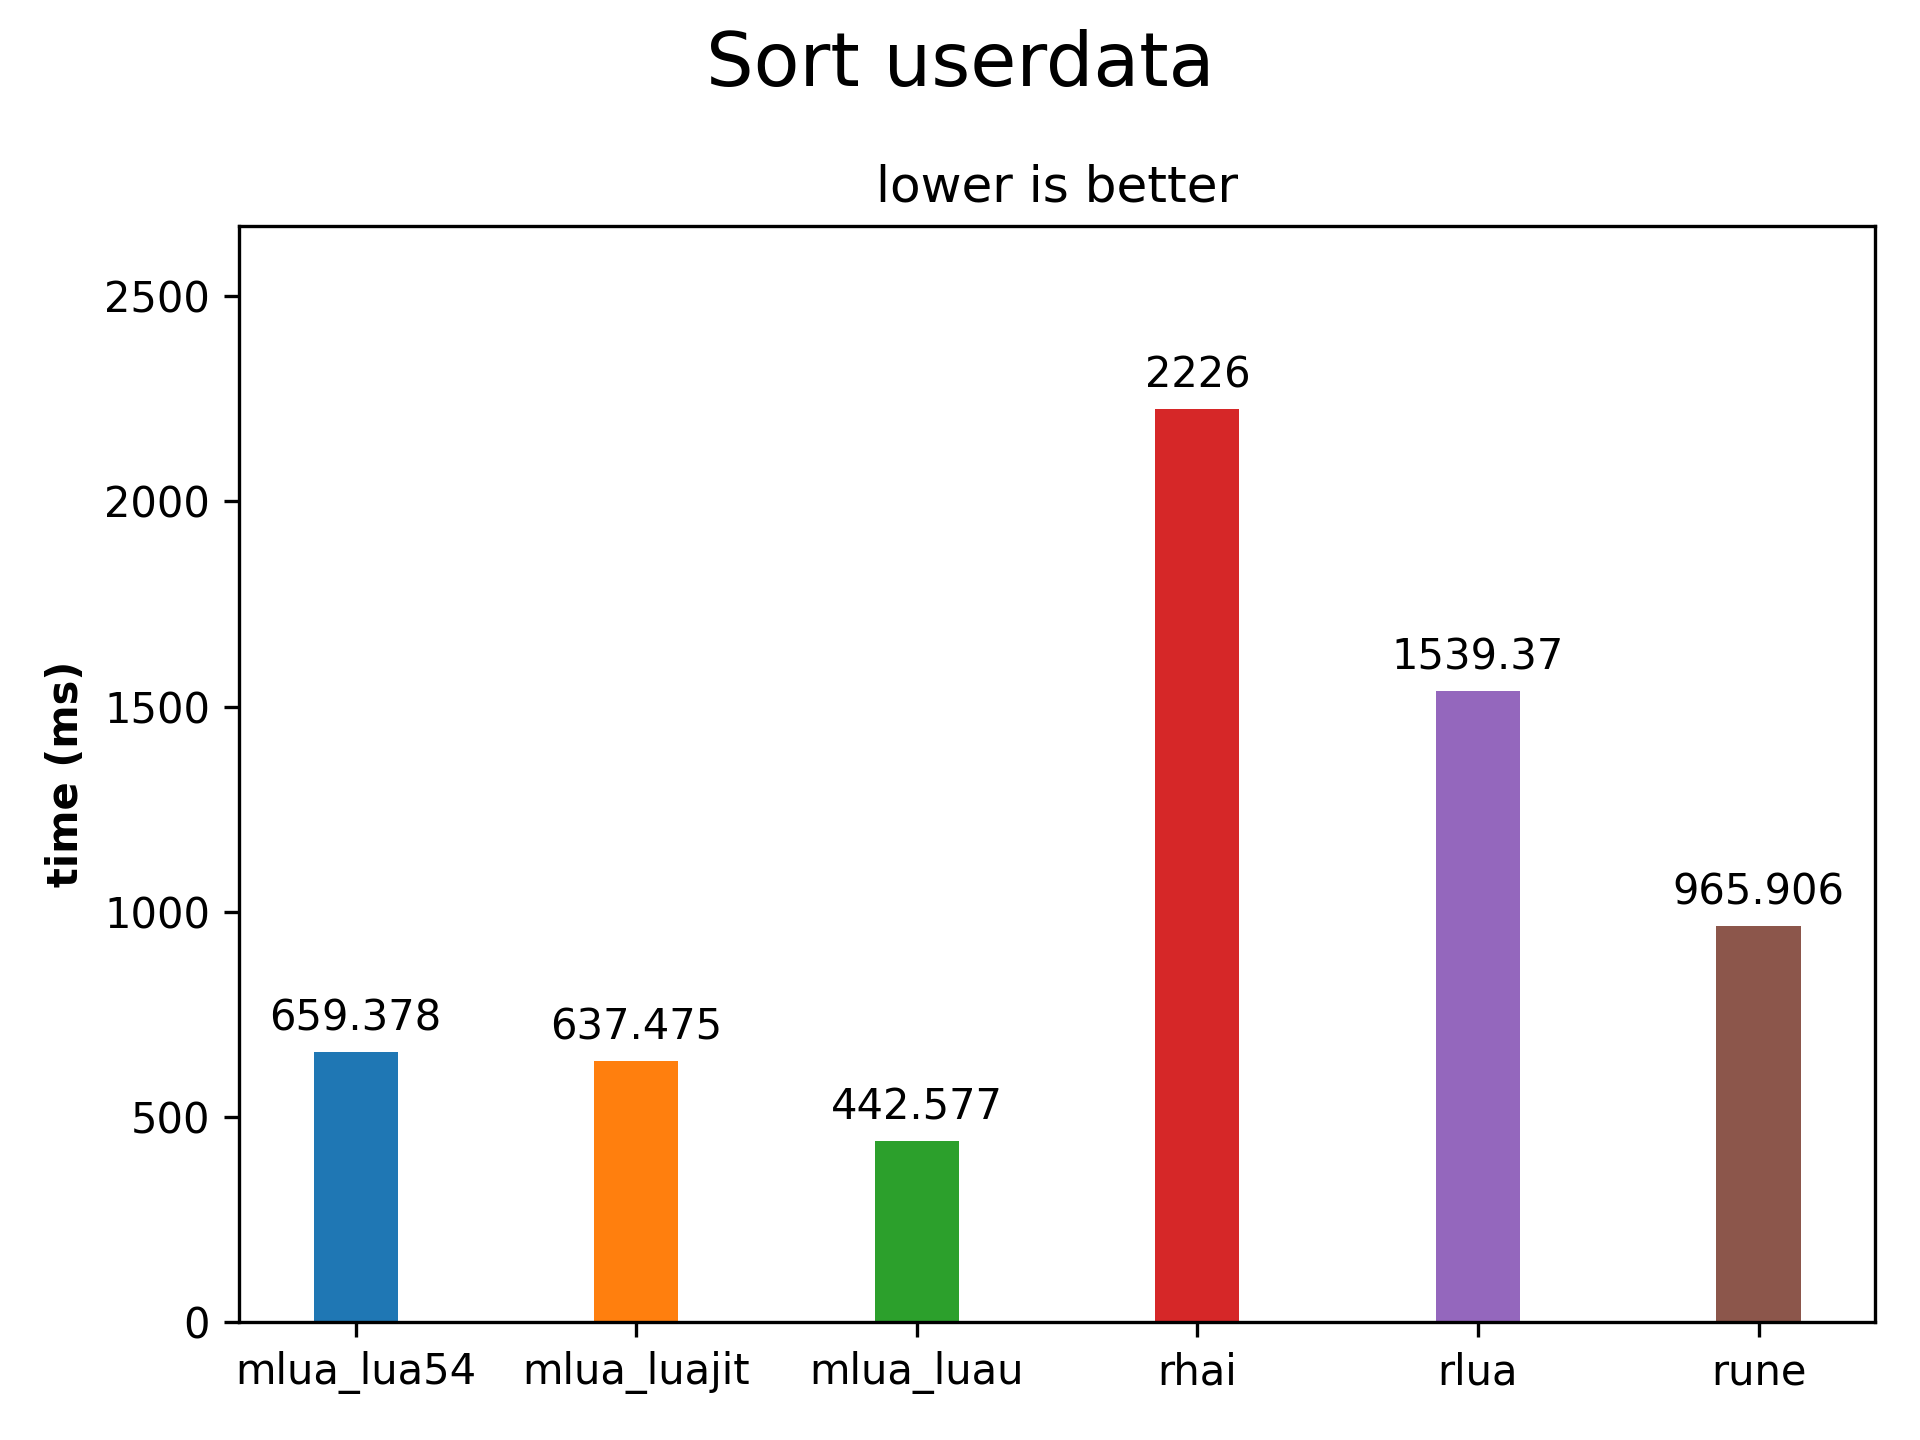
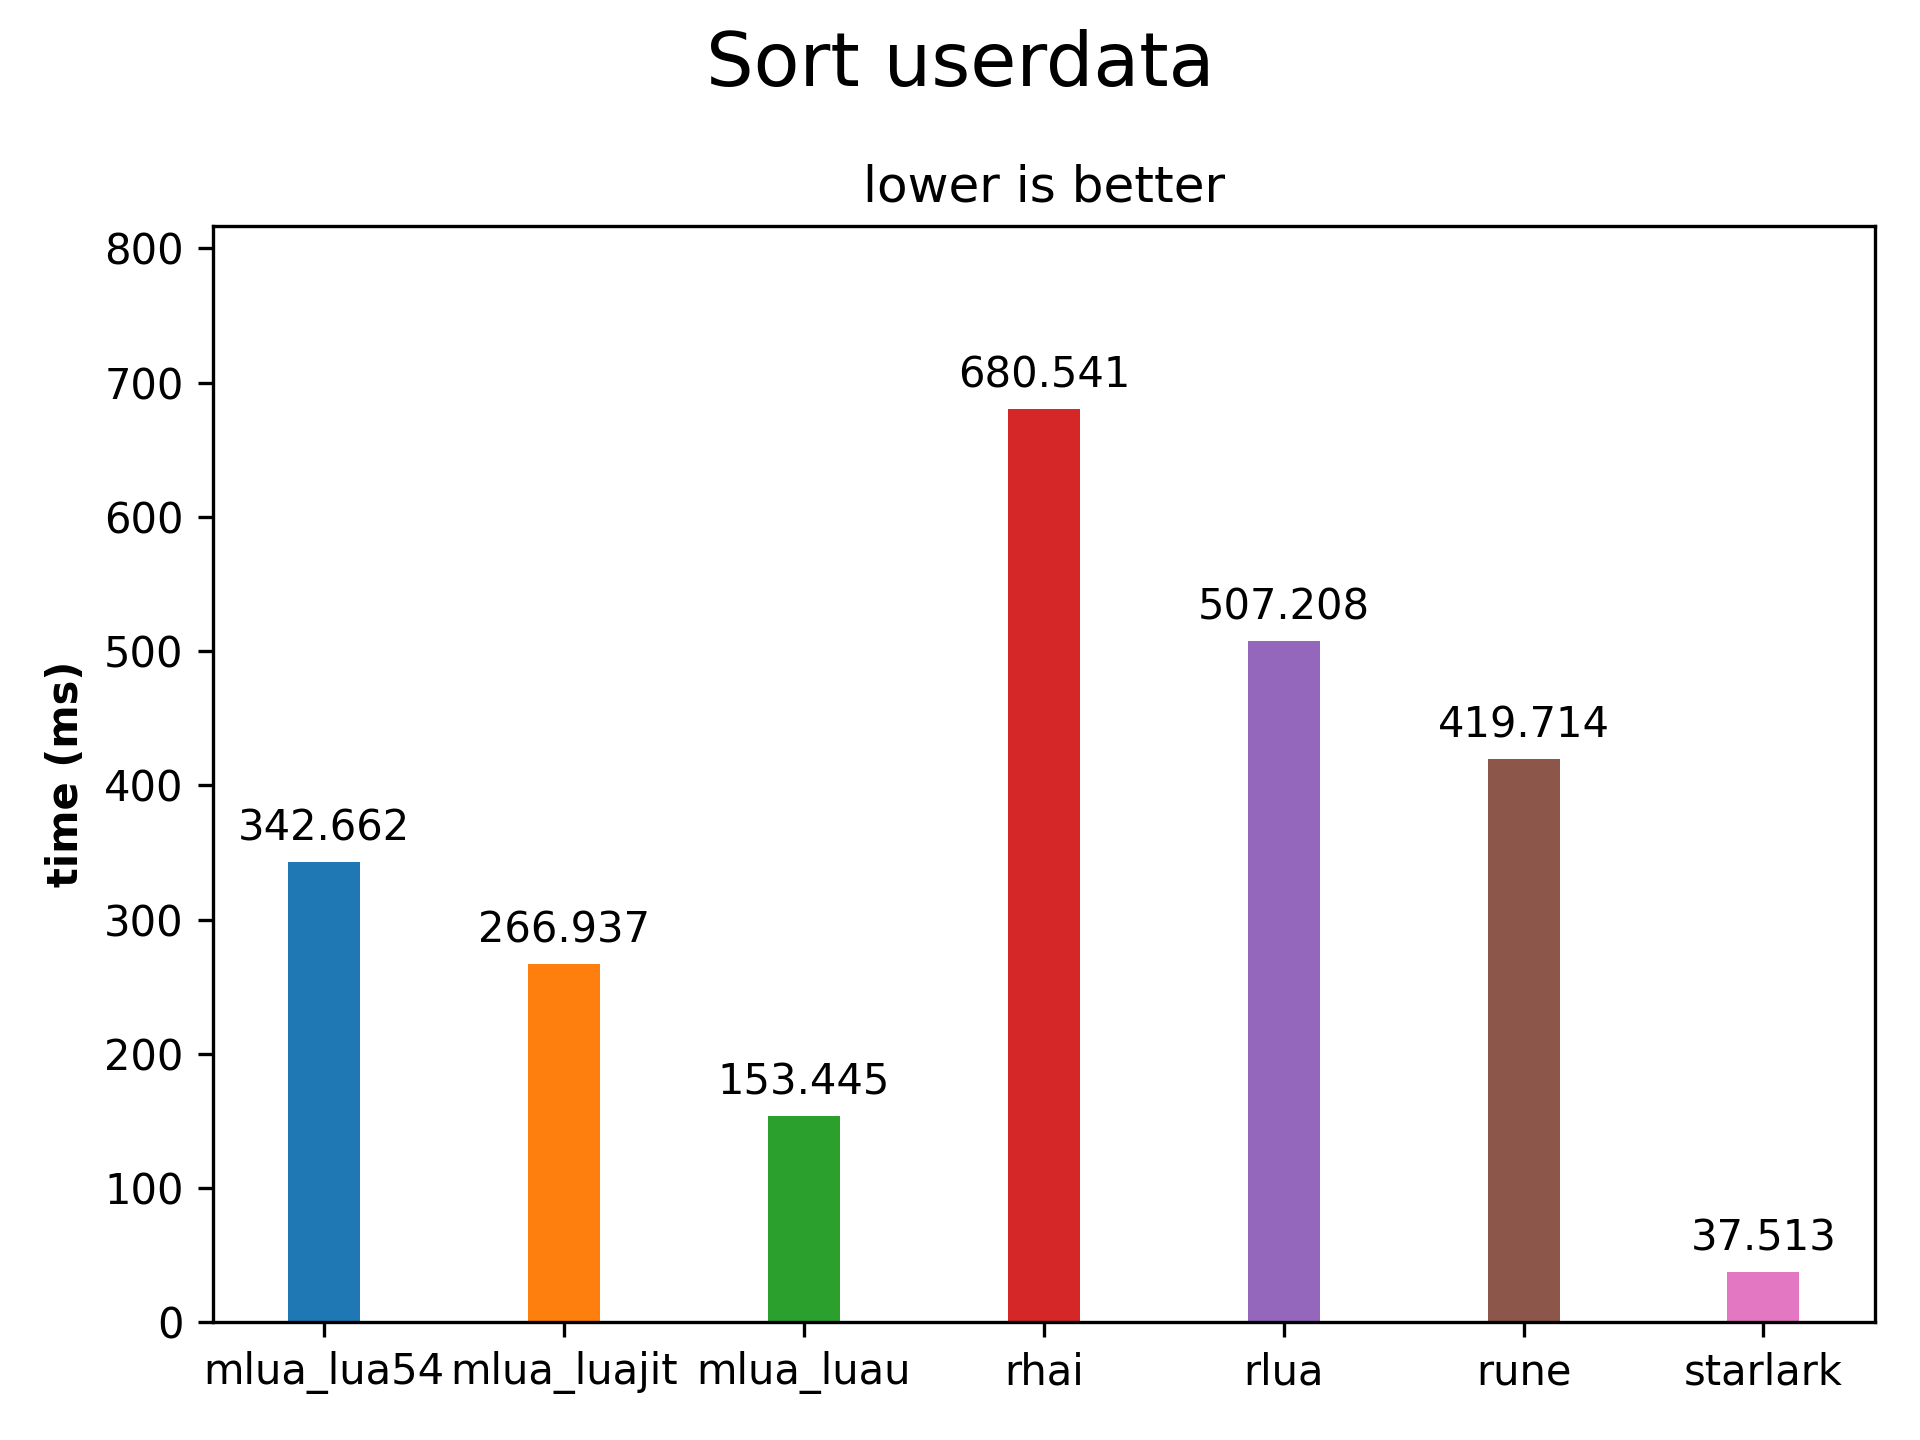
try starlark

diff --git a/benches/starlark.rs b/benches/starlark.rs
@@ -1,0 +1,57 @@
+#[macro_use]
+extern crate starlark;
+
+use starlark::environment::{GlobalsBuilder, Module};
+use starlark::eval::Evaluator;
+use starlark::syntax::{AstModule, Dialect};
+
+use criterion::{criterion_group, criterion_main, BatchSize, Criterion};
+
+#[starlark_module]
+fn functions(builder: &mut GlobalsBuilder) {
+    fn rand(n: i32) -> anyhow::Result<i32> {
+        Ok(rand::random::<i32>() % n)
+    }
+}
+
+const PROG: &'static str = r#"
+charset = ["0","1","2","3","4","5","6","7","8","9","a","b","c","d","e","f"];
+def generate_string(len):
+    data = []
+    for i in range(len):
+        data.append(charset[rand(len)])
+    return ' '.join(data)
+
+array = []
+for i in range(100000):
+    array.append(generate_string(rand(16) + 1));
+"#;
+
+fn benchmark(c: &mut Criterion) {
+    let module = Module::new();
+    let globals = GlobalsBuilder::standard().with(functions).build();
+
+    c.bench_function("Sort userdata", |b| {
+        b.iter_batched(
+            || {
+                let ast =
+                    AstModule::parse("sort_userdata.star", PROG.to_owned(), &Dialect::Extended)
+                        .expect("parse");
+                let eval = Evaluator::new(&module);
+                (eval, ast)
+            },
+            |(mut eval, ast)| {
+                eval.eval_module(ast, &globals).expect("eval module");
+            },
+            BatchSize::SmallInput,
+        );
+    });
+}
+
+criterion_group! {
+    name = benches;
+    config = Criterion::default().sample_size(10);
+    targets = benchmark,
+}
+
+criterion_main!(benches);

diff --git a/benches/rhai.rs b/benches/rhai.rs
@@ -27,8 +27,6 @@ const PROG: &'static str = r#"
     for i in 0..100000 {
         array.push(RustData_new(generate_string.call(rand(16) + 1)));
     }
-
-    array.sort(|a, b| return if a < b { -1 } else if b < a { 1 } else { 0 });
 "#;
 
 fn benchmark(c: &mut Criterion) {

diff --git a/benches/rune.rs b/benches/rune.rs
@@ -28,8 +28,6 @@ pub fn main() {
     for i in 0..100000 {
         array.push(RustData::new(generate_string(rand(16) + 1)));
     }
-
-    array.sort_by(|a, b| a.cmp(b));
 }"#;
 
 pub fn module() -> Result<Module, ContextError> {
